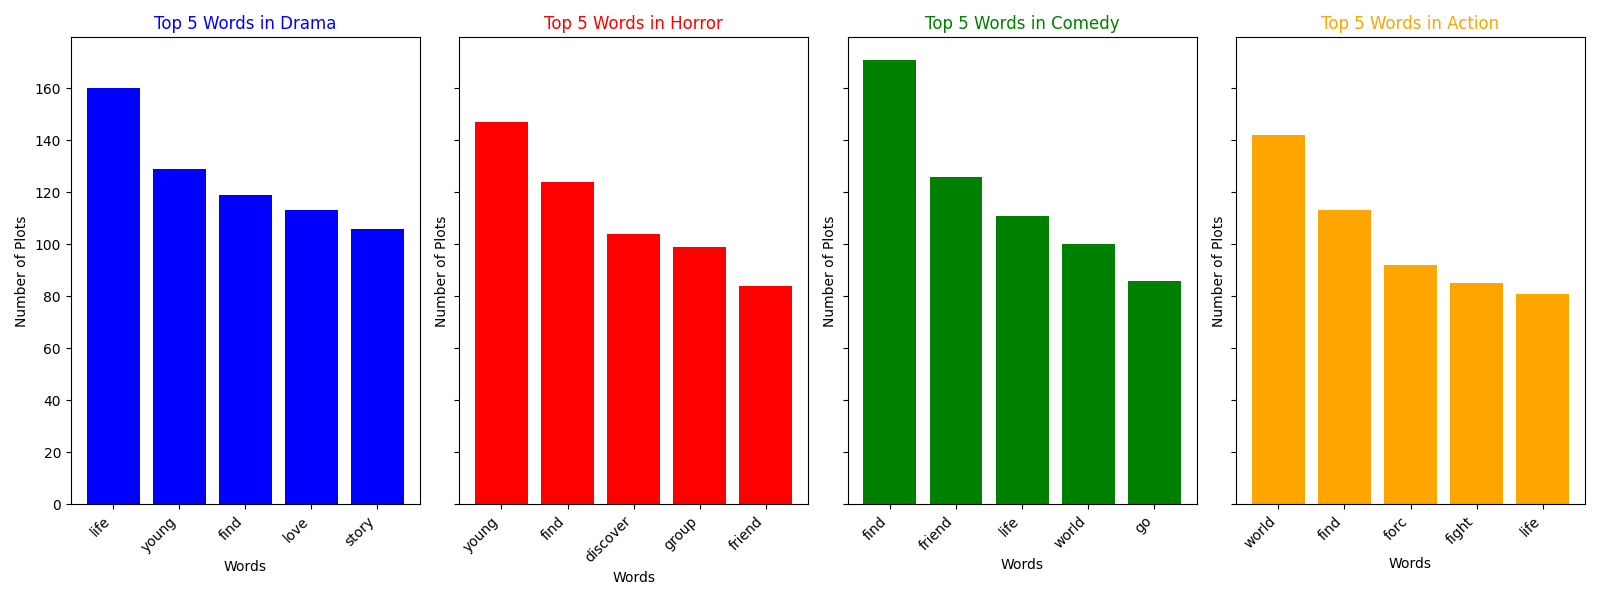
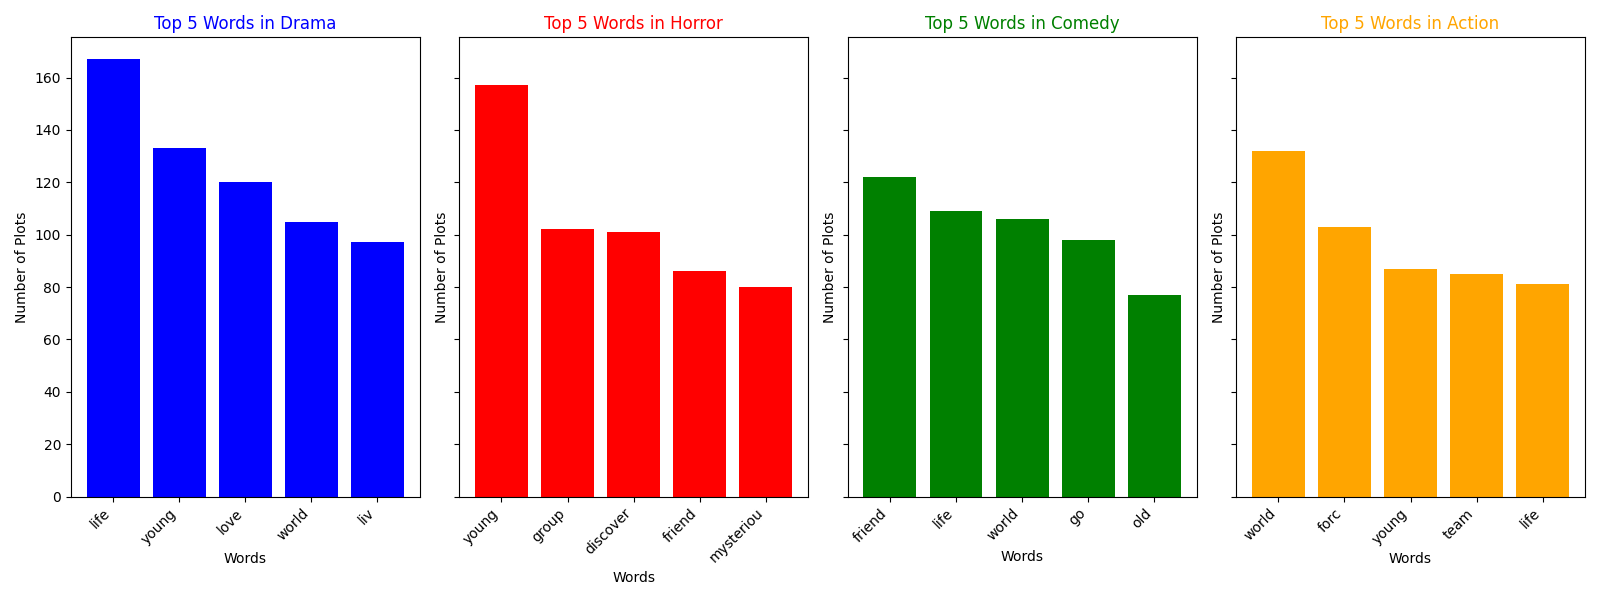
READY?

diff --git a/stop_words.py b/stop_words.py
@@ -12,5 +12,5 @@ stop_words = {
     "under", "until", "up", "very", "was", "wasn't", "we", "we'd", "we'll", "we're", "we've", "were", "weren't",
     "what", "what's", "when", "when's", "where", "where's", "which", "while", "who", "who's", "whom", "why", "why's",
     "with", "won't", "would", "wouldn't", "you", "you'd", "you'll", "you're", "you've", "your", "yours", "yourself",
-    "yourselves", "s", "one", "new", "two", "three", "get", "year", "will", "family", "must", "can"
+    "yourselves", "s", "one", "new", "two", "three", "get", "year", "will", "family", "must", "can", "find"
 }

diff --git a/bayes.py b/bayes.py
@@ -5,6 +5,7 @@ import math
 import numpy as np
 from sklearn.metrics import classification_report, confusion_matrix
 from stop_words import stop_words
+from word_statistics import word_statistics, plot_accuracy_vs_genres
 
 DRAMA = "Drama"
 HORROR = "Horror"
@@ -171,6 +172,8 @@ def main():
     
     print("\nAccuracy:", test())
     evaluate()
+    
+    word_statistics(plots,categories_dict, vocab, word_to_index)
 
 if __name__ == "__main__":
     main()
